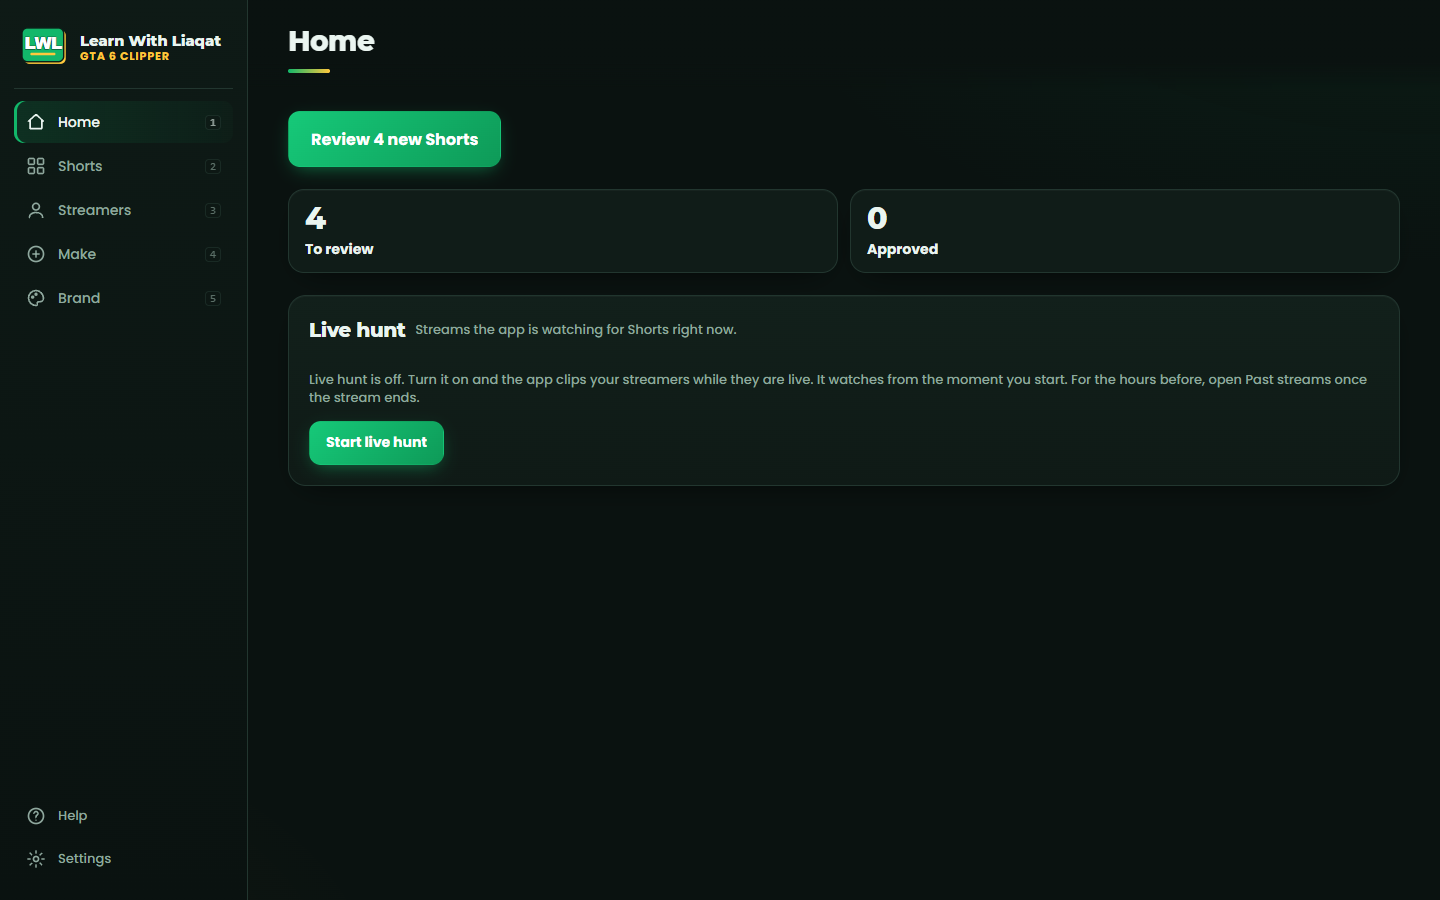
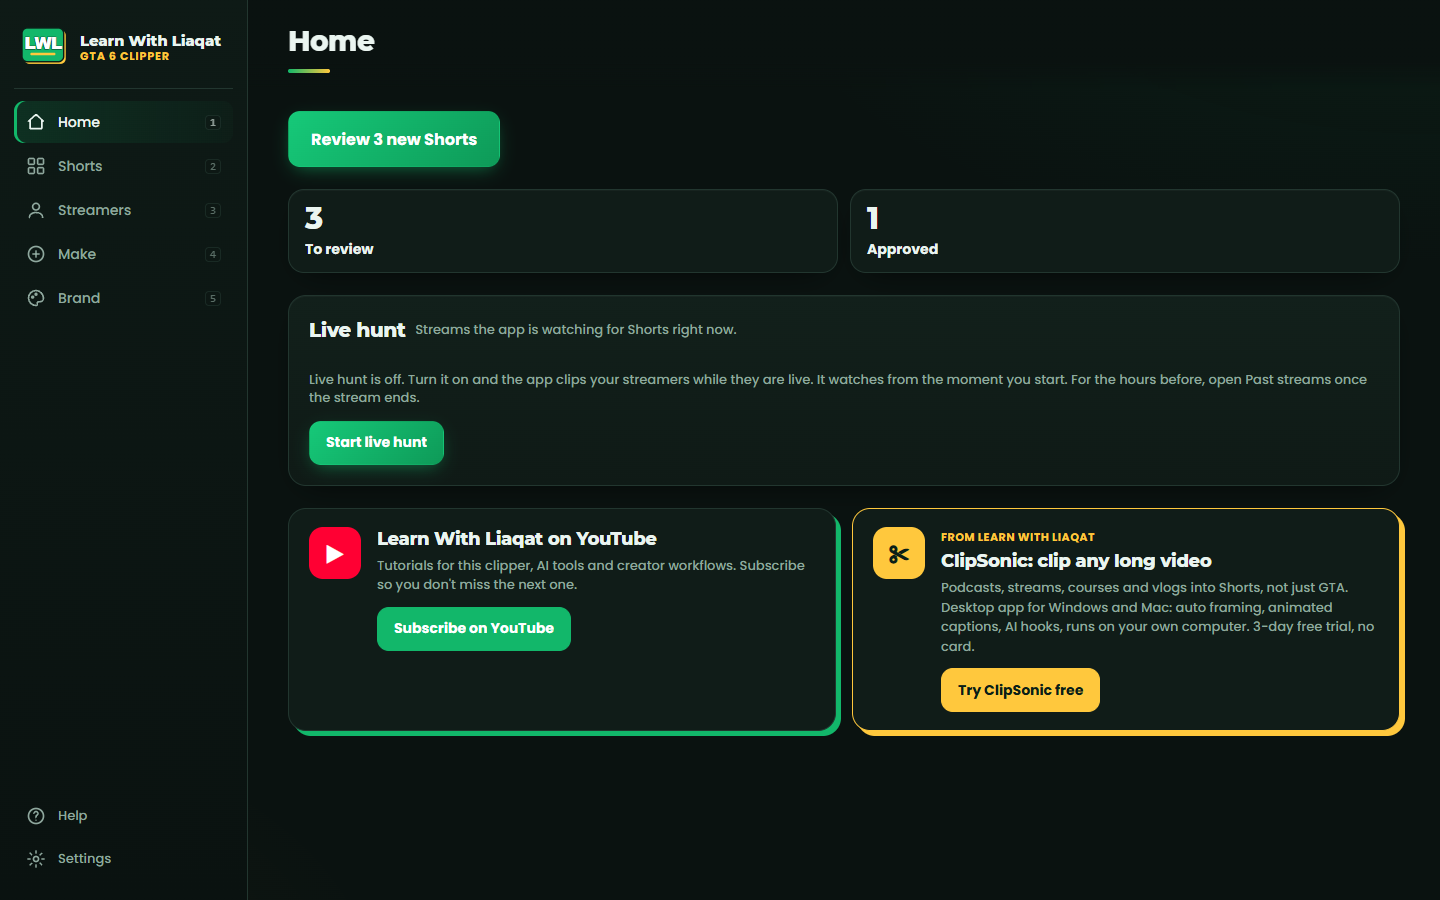
Add Learn With Liaqat channel and ClipSonic promotion
- README: subscribe link, ClipSonic banner near the top and a
  "More from Learn With Liaqat" section; Credits now Learn With Liaqat only
- App Home: YouTube channel and ClipSonic cards
- NOTICE and CHANGELOG: drop the upstream credit line

diff --git a/app.html b/app.html
@@ -168,6 +168,16 @@ kbd{border-color:var(--l);background:#0D1714}
  [dir=rtl] #nav button.on{box-shadow:inset -3px 0 0 var(--a)}[dir=rtl] #nav kbd{margin-left:0;margin-right:auto}
 }
 @media (max-width:640px){#nav .lwl-top{display:none}#nav{background:#0E1A16;border-top:1px solid var(--l)}#nav button.on{color:var(--a);background:none}}
+/* Learn With Liaqat: channel + ClipSonic cards on Home */
+.lwlp{display:grid;grid-template-columns:repeat(auto-fit,minmax(300px,1fr));gap:16px;margin:18px 0}
+.lwlc{display:flex;gap:16px;align-items:flex-start;background:var(--p);border:1px solid var(--l);border-radius:var(--r2);padding:18px 20px}
+.lwlc.cs{border-color:var(--g);box-shadow:5px 5px 0 var(--g)}
+.lwlc.yt{box-shadow:5px 5px 0 var(--a)}
+.lwli{flex:0 0 52px;height:52px;border-radius:14px;display:flex;align-items:center;justify-content:center;font:800 22px system-ui,sans-serif}
+.lwlc.yt .lwli{background:#FF0033;color:#fff}.lwlc.cs .lwli{background:var(--g);color:#0B1F17}
+.lwlc h2{margin:0 0 4px;font-size:18px}.lwlc p{margin:0 0 12px;color:var(--m);font-size:13px;line-height:1.5}
+.lwlc .btn{background:var(--a);border-color:var(--a);color:#fff;text-decoration:none}.lwlc.cs .btn{background:var(--g);border-color:var(--g);color:#0B1F17}
+.lwlc .tag{display:inline-block;font-size:11px;font-weight:700;letter-spacing:.5px;color:var(--g);margin-bottom:4px}
 </style>
 <div id=app>
 <nav id=nav aria-label=Main><div class=lwl-top><span class=logo><svg xmlns="http://www.w3.org/2000/svg" viewBox="0 0 256 256" width="256" height="256" role="img" aria-label="Learn With Liaqat"><rect x="12" y="34" width="232" height="188" rx="30" fill="#FFC83D"/><rect x="0" y="22" width="232" height="188" rx="30" fill="#12B76A" stroke="#0B1F17" stroke-width="8"/><text x="116" y="138" text-anchor="middle" font-family="'Arial Black',Impact,system-ui,sans-serif" font-weight="900" font-size="92" fill="#FFFFFF" stroke="#0B1F17" stroke-width="5" paint-order="stroke" letter-spacing="-2">LWL</text><rect x="46" y="160" width="140" height="14" rx="7" fill="#FFC83D"/></svg></span><span class=lwl-brand><b>Learn With Liaqat</b><small>GTA 6 Clipper</small></span></div>
@@ -1235,6 +1245,11 @@ function foldSet(id,v){const f=foldGet();f[id]=v?1:0;lsSet(FK,JSON.stringify(f))
 // ---------- affiliate, published, updates ----------
[1 lines of base64/hex data omitted]
 const BPROMO=()=>new Date()<=new Date(2026,10,30,23,59,59)?`<div class=bpromo><b>${t('ui.promo_off')}</b> ${t('ui.with_code')} <code>BLACKFRIDAY2026</code> <small>${t('ui.until_30nov')}</small></div>`:'';
+const LWL_YT='https://www.youtube.com/@LearnWithLiaqat?sub_confirmation=1',CS_URL='https://clipsonic.app/?utm_source=gta6-clipper&utm_medium=app&utm_campaign=home';
+const lwlPromo=()=>`<section class=lwlp aria-label="More from Learn With Liaqat">
+ <div class="lwlc yt"><div class=lwli aria-hidden=true>▶</div><div><h2>Learn With Liaqat on YouTube</h2><p>Tutorials for this clipper, AI tools and creator workflows. Subscribe so you don't miss the next one.</p><a class="btn p" href="${LWL_YT}" target=_blank rel="noopener noreferrer">Subscribe on YouTube</a></div></div>
+ <div class="lwlc cs"><div class=lwli aria-hidden=true>✂</div><div><span class=tag>FROM LEARN WITH LIAQAT</span><h2>ClipSonic: clip any long video</h2><p>Podcasts, streams, courses and vlogs into Shorts, not just GTA. Desktop app for Windows and Mac: auto framing, animated captions, AI hooks, runs on your own computer. 3-day free trial, no card.</p><a class="btn p" href="${CS_URL}" target=_blank rel="noopener noreferrer">Try ClipSonic free</a></div></div>
+</section>`;
 const bloHero=()=>'';const _bloHeroOff=()=>`<section class=bhero><img src="${BLOGO}" alt="Blotato"><div><h2>${te('blo.cta')}</h2>${BLO.has?'':BPROMO()}<p>${BLO.has?te('blo.connected')+' - '+te('ui.blo_posts_self'):te('blo.note')}</p></div><span class=sp></span>${BLO.has?`<a class=btn href="#apr">${te('ui.autosch_approved')}</a>`:`<a class=btn href="#" data-bloc>${te('ui.connect_blo')}</a>`}</section>`;
 const MCPCMD='claude mcp add --transport http blotato https://mcp.blotato.com/mcp';
 function bloConnect(){let d=E('blod');if(!d){d=document.createElement('dialog');d.id='blod';document.body.appendChild(d)}
@@ -1318,7 +1333,7 @@ async function drawHome(){const m=E('main'),n=D.shorts.length,rv=D.shorts.filter
  else top=`<div class=row><button class="p big" id=hm_go>${rv?te('home.cta.review',{n:rv}):te('home.cta.make')}</button><button class=sm id=hm_pv>${te('home.preview')}</button></div>`;
  const tile=(k,v,go,sub)=>`<button class=tile data-hm="${go}"><b>${v}</b><span>${te('home.tile.'+k)}</span><small>${sub||''}</small></button>`;
  m.innerHTML=`${updBanner()}${top}${bloHero()}<div class=tiles>${tile('review',rv,'review')}${tile('approved',ap,'apr')}</div>
-  <section class=panel><div class=bar><h2>${te('hunt.title')}</h2><small>${te('hunt.sub')}</small></div><div id=hcard></div></section>`;
+  <section class=panel><div class=bar><h2>${te('hunt.title')}</h2><small>${te('hunt.sub')}</small></div><div id=hcard></div></section>${lwlPromo()}`;
  if(E('hm_go'))E('hm_go').onclick=()=>run?go('new'):!n?makeAsk():rv?reviewToday():un?go('apr'):makeAsk();
  if(E('hm_pv'))E('hm_pv').hidden=true;
  if(E('hm_lg'))E('hm_lg').onclick=()=>{const v=E('hm_l').value.trim();if(!v)return E('hm_l').focus();go('new');E('n_src').value=v;E('n_go').click()};

diff --git a/README.md b/README.md
@@ -22,6 +22,13 @@
 
 <p align="center"><sub>Made by the app from one public GTA 6 stream by xQc (YouTube, 20 Nov 2026). Clips belong to their creators (see <a href="NOTICE.md">NOTICE</a>).</sub></p>
 
+<p align="center">
+  <a href="https://www.youtube.com/@LearnWithLiaqat?sub_confirmation=1"><b>▶ Subscribe to Learn With Liaqat</b></a> &nbsp;·&nbsp;
+  <a href="https://clipsonic.app/?utm_source=github&utm_medium=readme&utm_campaign=gta6-clipper"><b>✂ Clip any long video with ClipSonic</b></a>
+</p>
+
+<p align="center"><a href="https://clipsonic.app/?utm_source=github&utm_medium=readme&utm_campaign=gta6-clipper-banner"><img src="docs/img/clipsonic.png" alt="ClipSonic: clip any long video into Shorts. Desktop AI clipper for Windows and Mac. Try it free." width="100%"></a></p>
+
 ---
 
 ## Install in one sentence
@@ -87,7 +94,7 @@ Start it any time with `python app.py <your workspace folder>` (it opens http://
 
 <table>
 <tr>
-<td width="50%"><img src="docs/img/home.png" alt="Home"><br><b>Home.</b> What needs review, what is approved, what the live hunt is watching.</td>
+<td width="50%"><img src="docs/img/home.png" alt="Home"><br><b>Home.</b> What needs review, what is approved, what the live hunt is watching, plus tutorials on the Learn With Liaqat channel.</td>
 <td width="50%"><img src="docs/img/shorts.png" alt="Shorts by day"><br><b>Shorts by day.</b> Every Short with a quality check (pass, warn, fail) and filters.</td>
 </tr>
 <tr>
@@ -167,10 +174,24 @@ Live hunt defaults to Free (no AI) with a cap on AI checks per hour. Your Claude
 
 **Does it work without an AI?** Yes, Free mode scores loudness, chat and keywords and renders automatically.
 
+## More from Learn With Liaqat
+
+**[ClipSonic](https://clipsonic.app/?utm_source=github&utm_medium=readme&utm_campaign=gta6-clipper): clip any long video, not just GTA.** This clipper is built for GTA 6 streams. ClipSonic is our desktop AI clipper for Windows and Mac that turns podcasts, streams, courses and vlogs into Shorts:
+
+- Smart, AI or fixed-length clip finding, with hook titles and post text for every clip
+- Auto framing for one, two or three people, re-framed on every camera cut
+- 29 animated caption presets with word-by-word highlighting
+- Live clipping of YouTube live streams
+- Runs on your own computer: no uploads, no watermark, no monthly fee
+
+[**Try ClipSonic free →**](https://clipsonic.app/?utm_source=github&utm_medium=readme&utm_campaign=gta6-clipper) 3-day free trial, no card.
+
+**[Learn With Liaqat on YouTube](https://www.youtube.com/@LearnWithLiaqat?sub_confirmation=1):** tutorials for this clipper, AI tools and creator workflows. [Subscribe](https://www.youtube.com/@LearnWithLiaqat?sub_confirmation=1) so you don't miss the next one.
+
 ## License
 
 MIT, see LICENSE. Bundled fonts keep their own OFL licenses (`fonts/`); models are listed in `models/NOTICES.txt`.
 
 ## Credits
 
-Learn With Liaqat edition for [Learn With Liaqat](https://www.youtube.com/@LearnWithLiaqat). Based on gta6-clipper by [NoCodeHack](https://www.youtube.com/@nocodehack) (MIT), built with Claude Code. Uses ffmpeg, faster-whisper, yt-dlp, streamlink, OpenCV and MediaPipe. Streamers in the images are credited on the clips they appear in. Fan-made, not affiliated with Rockstar Games, Take-Two or any streamer.
+Made by [Learn With Liaqat](https://www.youtube.com/@LearnWithLiaqat), built with Claude Code. Uses ffmpeg, faster-whisper, yt-dlp, streamlink, OpenCV and MediaPipe. Streamers in the images are credited on the clips they appear in. Fan-made, not affiliated with Rockstar Games, Take-Two or any streamer.

diff --git a/NOTICE.md b/NOTICE.md
@@ -1,6 +1,6 @@
 # Notice
 
-liaqat-gta6-clipper is the Learn With Liaqat edition of gta6-clipper (MIT, originally by NoCodeHack). It is an independent, fan-made tool. It is not affiliated with, endorsed by or sponsored by Rockstar Games, Take-Two Interactive, Twitch, YouTube, Kick or any streamer shown in the screenshots.
+liaqat-gta6-clipper is made by Learn With Liaqat. It is an independent, fan-made tool. It is not affiliated with, endorsed by or sponsored by Rockstar Games, Take-Two Interactive, Twitch, YouTube, Kick or any streamer shown in the screenshots.
 
 - "Grand Theft Auto" and "GTA" are trademarks of Take-Two Interactive Software, Inc. They are used only to describe what the footage shows.
 - Clips, frames and Shorts shown in this repository come from a public YouTube upload of an xQc GTA 6 stream ("xQc Goes on a Jewelry Store SPREE | GTA 6 Playthrough #13"). Streamer names in the app screenshots are the app's suggested list. The video and audio belong to their creators, who keep all rights. Please credit the streamer whenever you post a clip, and remove a clip if its creator asks.

diff --git a/CHANGELOG.md b/CHANGELOG.md
@@ -1,6 +1,6 @@
 # Changelog
 
-All notable changes to liaqat-gta6-clipper (Learn With Liaqat edition, based on gta6-clipper by NoCodeHack). Newest first.
+All notable changes to liaqat-gta6-clipper by Learn With Liaqat. Newest first.
 
 ## 1.0.13
 ### Added
